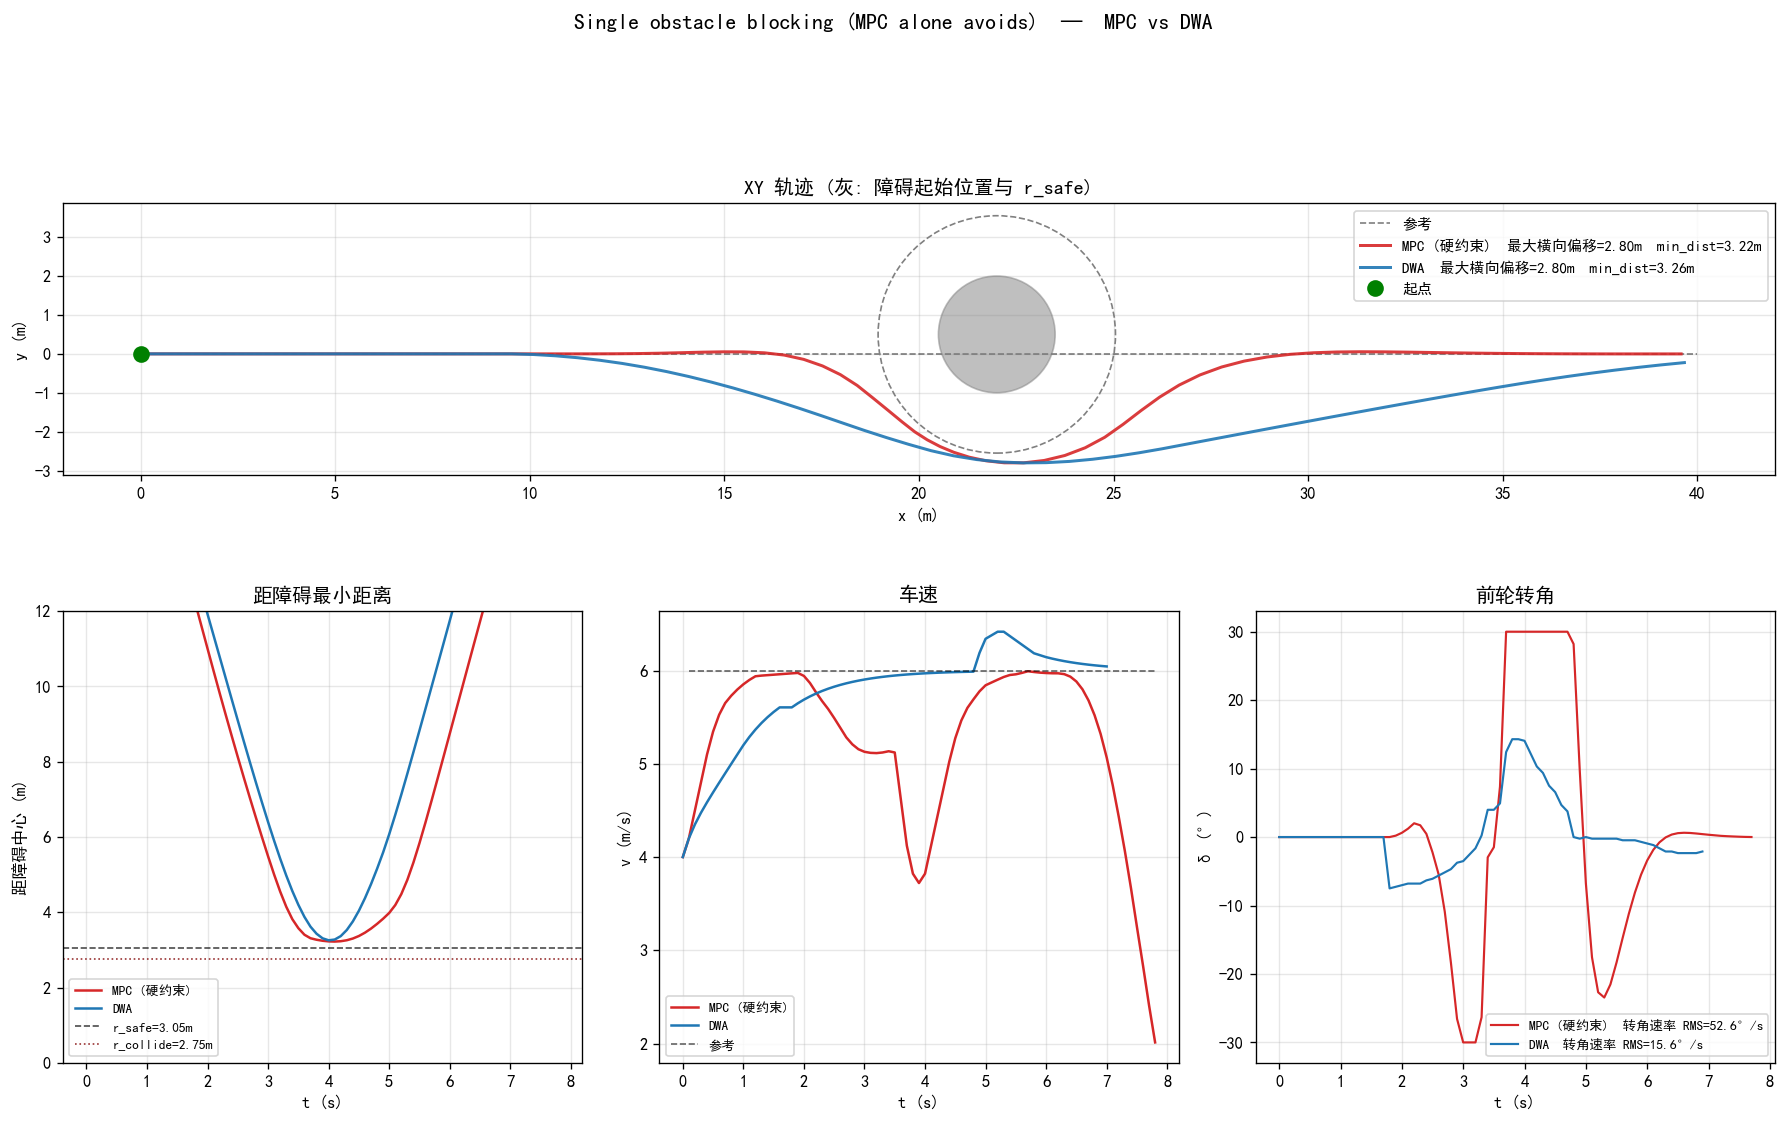
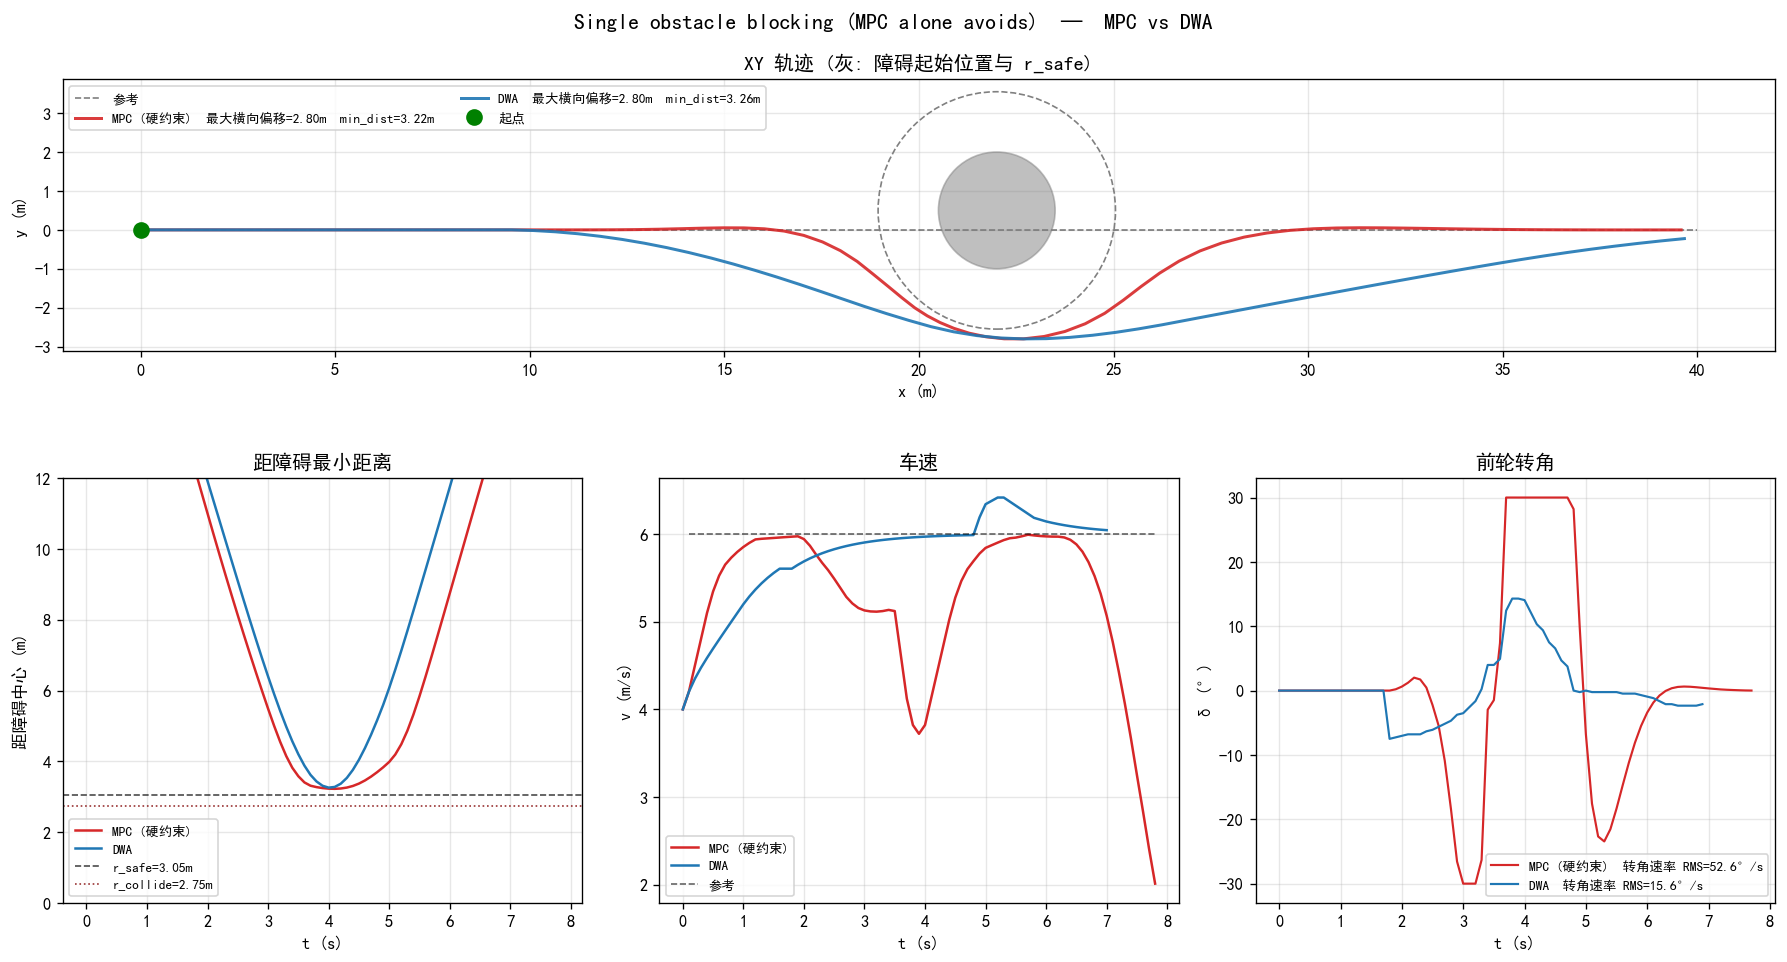
fix: size MPC vs DWA figure rows to the scene aspect ratio
The XY panel keeps an equal aspect, so on thin scenes (80 m x 6 m) most of
the top row was blank and the README thumbnail was hard to read. The top row
height now follows the scene's aspect ratio. README solve times are given as
ranges since they vary between runs.

diff --git a/compare_dwa.py b/compare_dwa.py
@@ -111,7 +111,14 @@ def plot_compare(sc, results, dt=0.1, save_path=None):
     ax.plot(sc.init_state[0], sc.init_state[1], 'go', ms=9, label='起点', zorder=6)
     ax.set_xlabel('x (m)'); ax.set_ylabel('y (m)')
     ax.set_aspect('equal'); ax.grid(True, alpha=0.3)
-    ax.legend(loc='best', fontsize=9)
+    ax.legend(loc='best', fontsize=8, ncol=2)
+    # XY 要等比例, 而场景多是 80 m × 6 m 这种细长条: 按长宽比定上排高度,
+    # 否则上排格子里大半是空白 (13.5 ≈ 上排坐标轴宽度 inch, +1.0 留给标题和坐标轴文字)
+    ax.autoscale_view()
+    (x0, x1), (y0, y1) = ax.get_xlim(), ax.get_ylim()
+    top_h = float(np.clip(13.5 * (y1 - y0) / (x1 - x0), 1.2, 5.0)) + 1.0
+    gs.set_height_ratios([top_h, 4.0])
+    fig.set_size_inches(15, top_h + 5.0)
     title = 'XY 轨迹 (灰: 障碍起始位置与 r_safe'
     title += '; 圆点 + 同色虚线圆: 离障碍最近时车和障碍的位置)' if is_dynamic else ')'
     ax.set_title(title)
